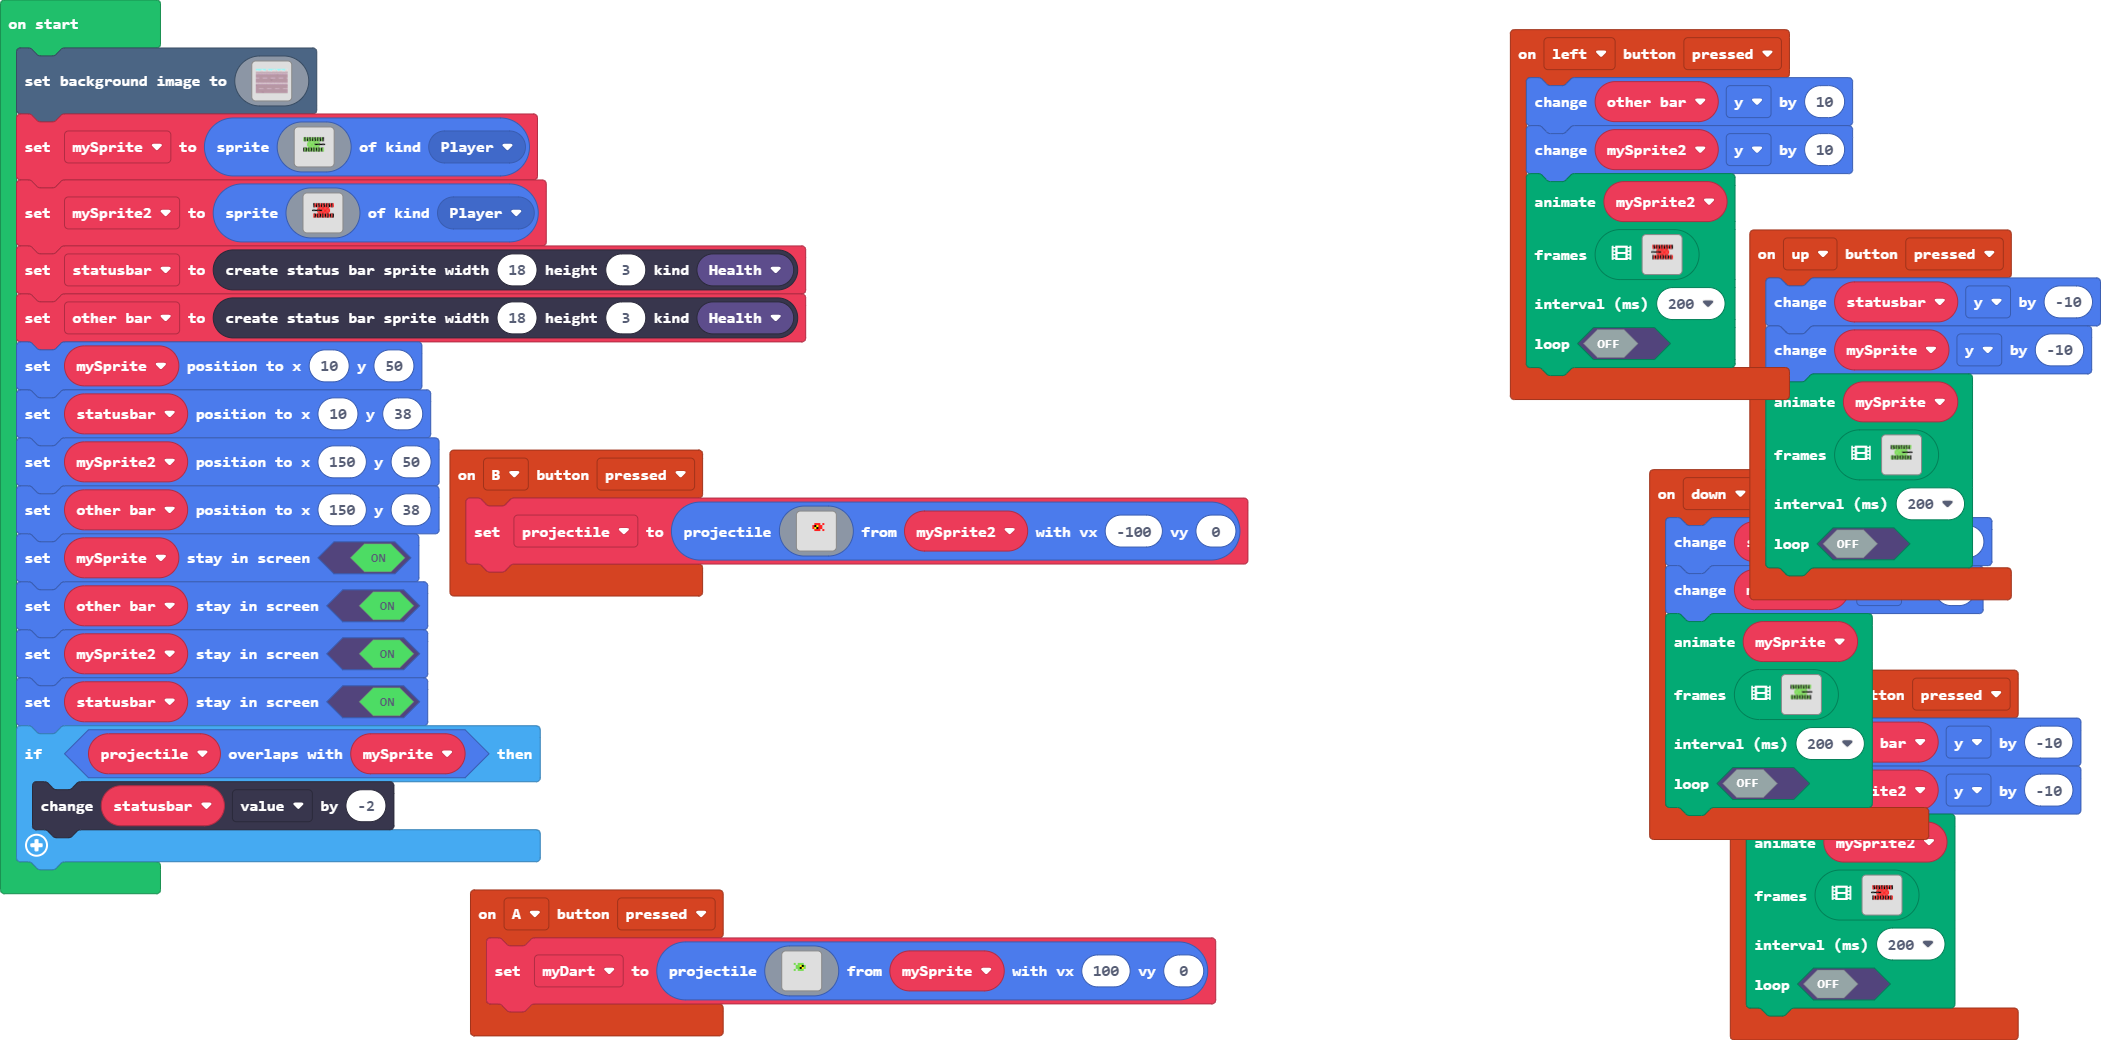
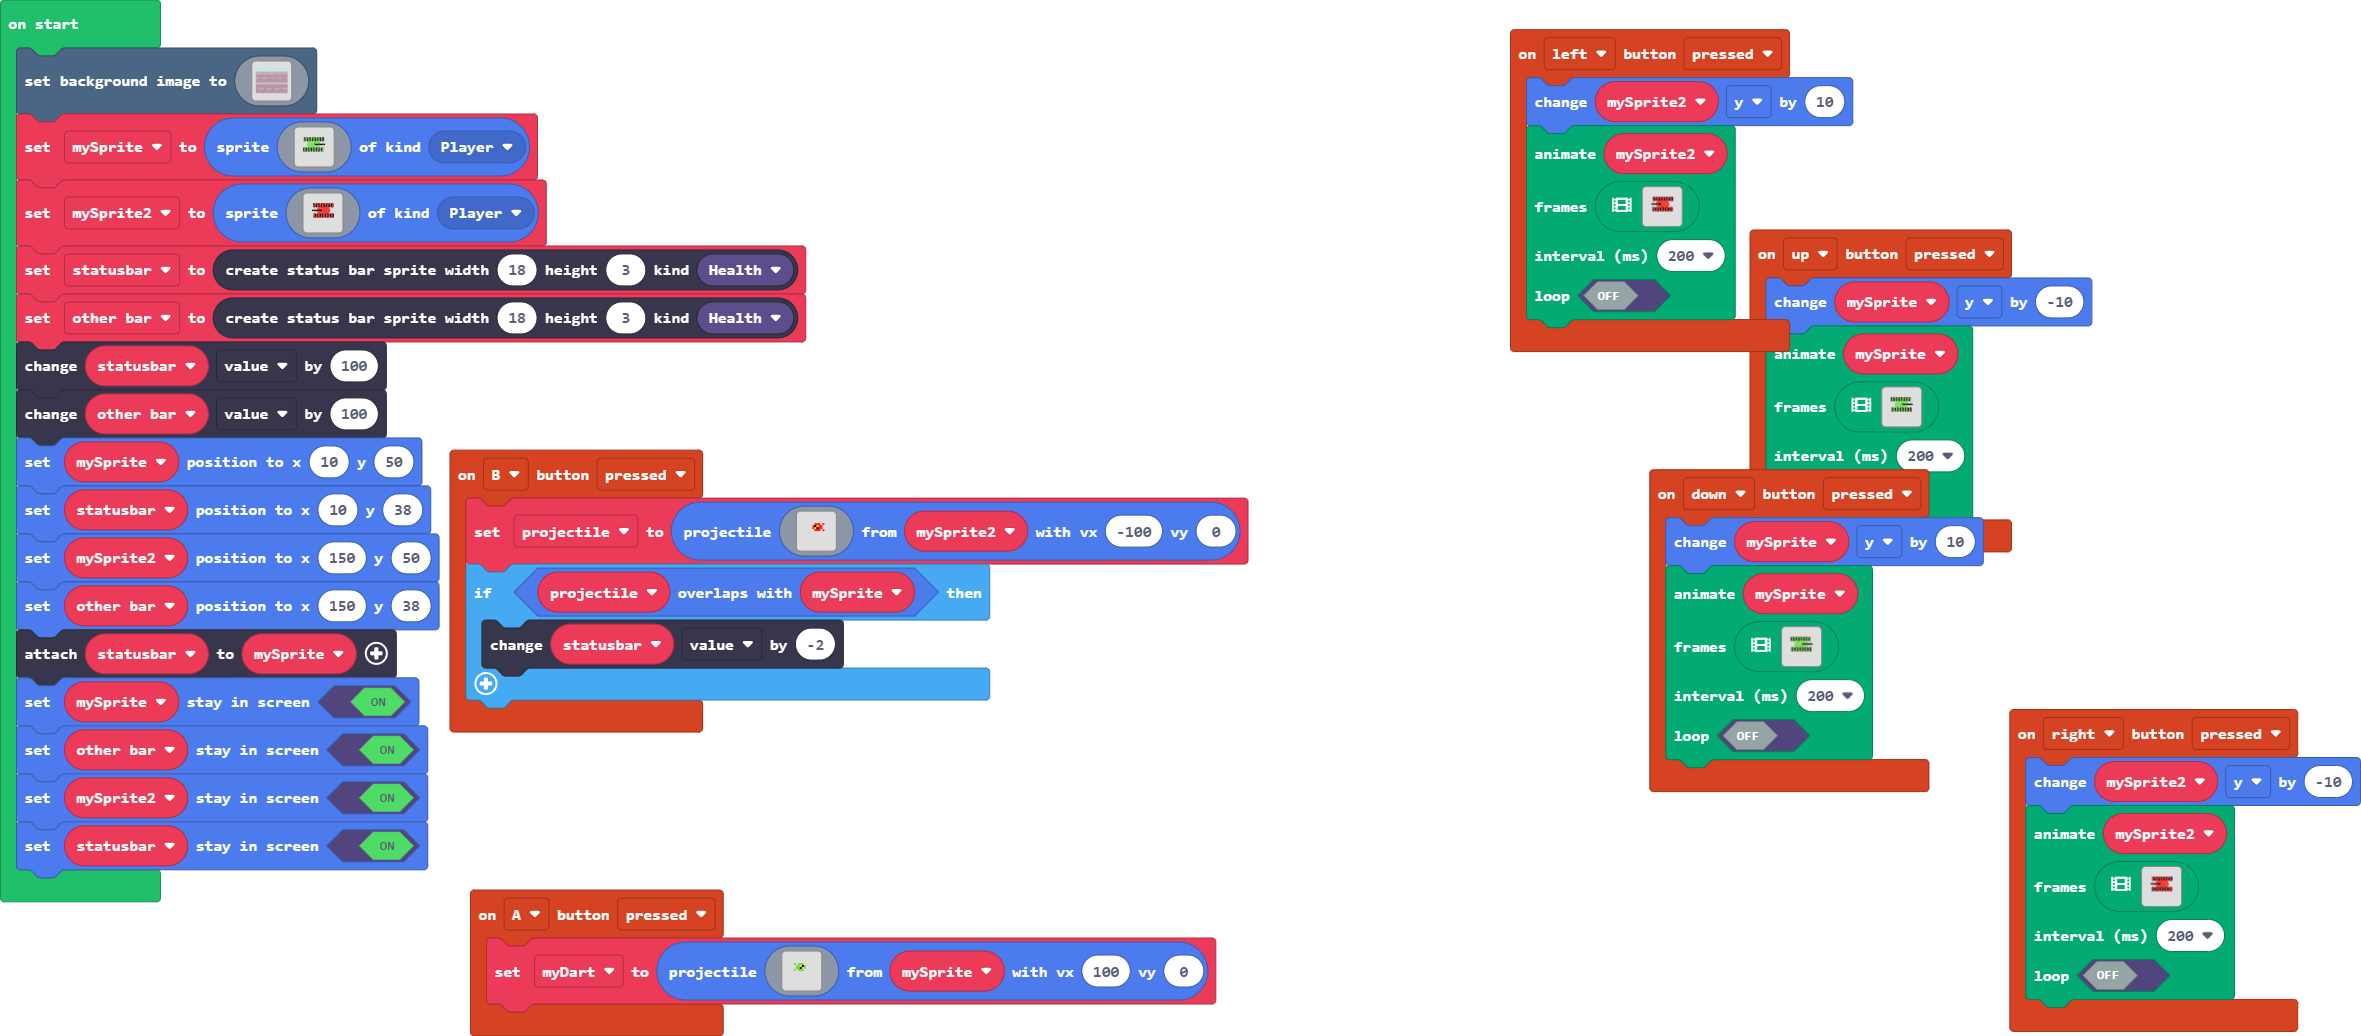
idk

diff --git a/main.ts b/main.ts
@@ -1,5 +1,4 @@
 controller.up.onEvent(ControllerButtonEvent.Pressed, function () {
-    statusbar.y += -10
     mySprite.y += -10
     animation.runImageAnimation(
     mySprite,
@@ -79,6 +78,9 @@ controller.B.onEvent(ControllerButtonEvent.Pressed, function () {
         . . . . . . . . . . . . . . . . 
         . . . . . . . . . . . . . . . . 
         `, mySprite2, -100, 0)
+    if (projectile.overlapsWith(mySprite)) {
+        statusbar.value += -2
+    }
 })
 controller.A.onEvent(ControllerButtonEvent.Pressed, function () {
     myDart = sprites.createProjectileFromSprite(img`
@@ -101,7 +103,6 @@ controller.A.onEvent(ControllerButtonEvent.Pressed, function () {
         `, mySprite, 100, 0)
 })
 controller.left.onEvent(ControllerButtonEvent.Pressed, function () {
-    other_bar.y += 10
     mySprite2.y += 10
     animation.runImageAnimation(
     mySprite2,
@@ -163,7 +164,6 @@ controller.left.onEvent(ControllerButtonEvent.Pressed, function () {
     )
 })
 controller.right.onEvent(ControllerButtonEvent.Pressed, function () {
-    other_bar.y += -10
     mySprite2.y += -10
     animation.runImageAnimation(
     mySprite2,
@@ -225,7 +225,6 @@ controller.right.onEvent(ControllerButtonEvent.Pressed, function () {
     )
 })
 controller.down.onEvent(ControllerButtonEvent.Pressed, function () {
-    statusbar.y += 10
     mySprite.y += 10
     animation.runImageAnimation(
     mySprite,
@@ -288,7 +287,6 @@ controller.down.onEvent(ControllerButtonEvent.Pressed, function () {
 })
 let myDart: Sprite = null
 let projectile: Sprite = null
-let other_bar: StatusBarSprite = null
 let statusbar: StatusBarSprite = null
 let mySprite2: Sprite = null
 let mySprite: Sprite = null
@@ -469,15 +467,15 @@ mySprite2 = sprites.create(img`
     .........................
     `, SpriteKind.Player)
 statusbar = statusbars.create(18, 3, StatusBarKind.Health)
-other_bar = statusbars.create(18, 3, StatusBarKind.Health)
+let other_bar = statusbars.create(18, 3, StatusBarKind.Health)
+statusbar.value += 100
+other_bar.value += 100
 mySprite.setPosition(10, 50)
 statusbar.setPosition(10, 38)
 mySprite2.setPosition(150, 50)
 other_bar.setPosition(150, 38)
+statusbar.attachToSprite(mySprite)
 mySprite.setStayInScreen(true)
 other_bar.setStayInScreen(true)
 mySprite2.setStayInScreen(true)
 statusbar.setStayInScreen(true)
-if (projectile.overlapsWith(mySprite)) {
-    statusbar.value += -2
-}
